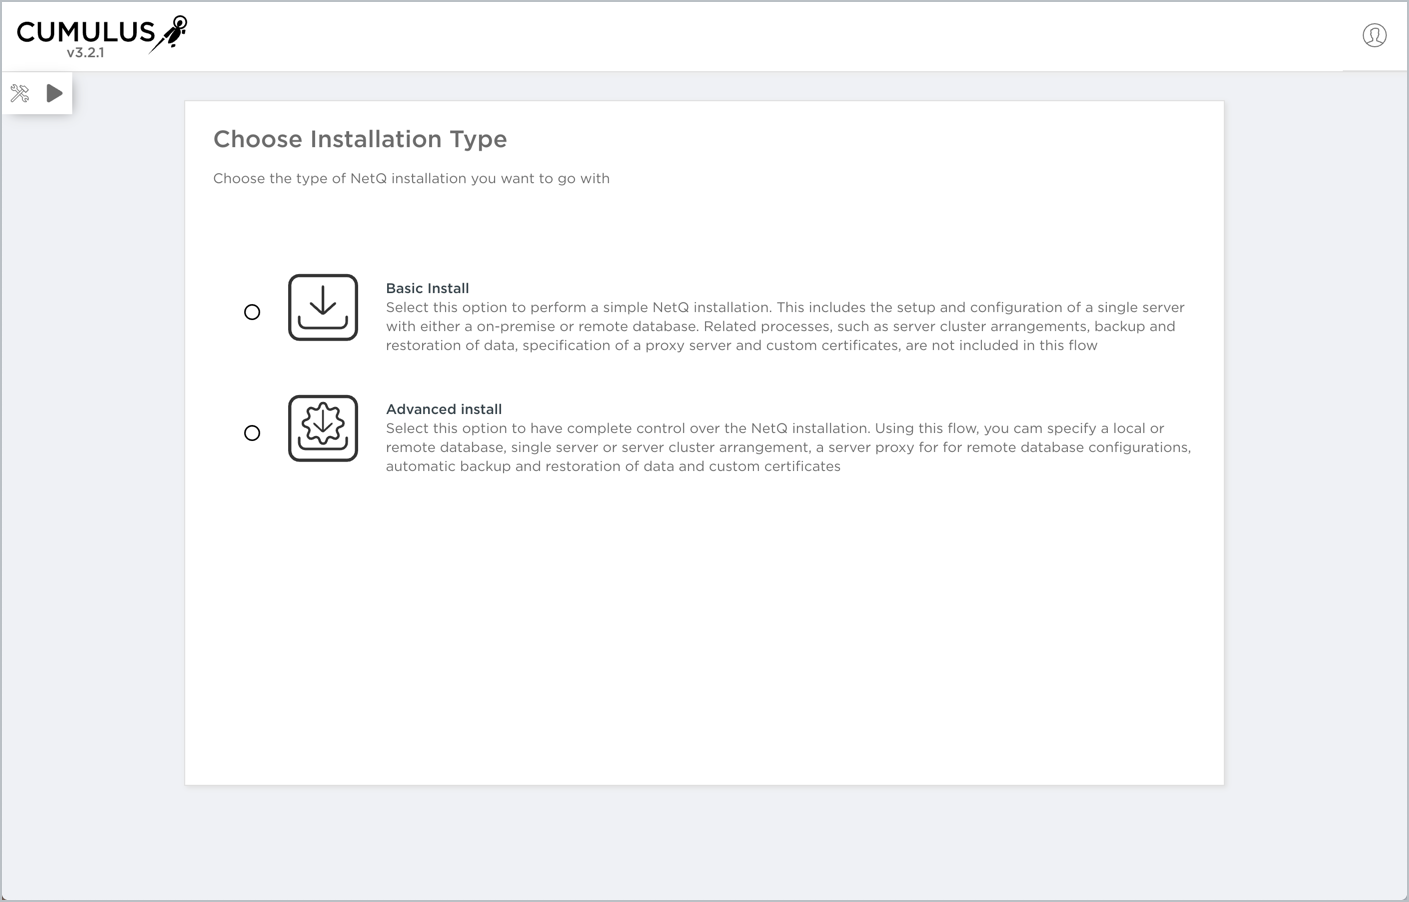
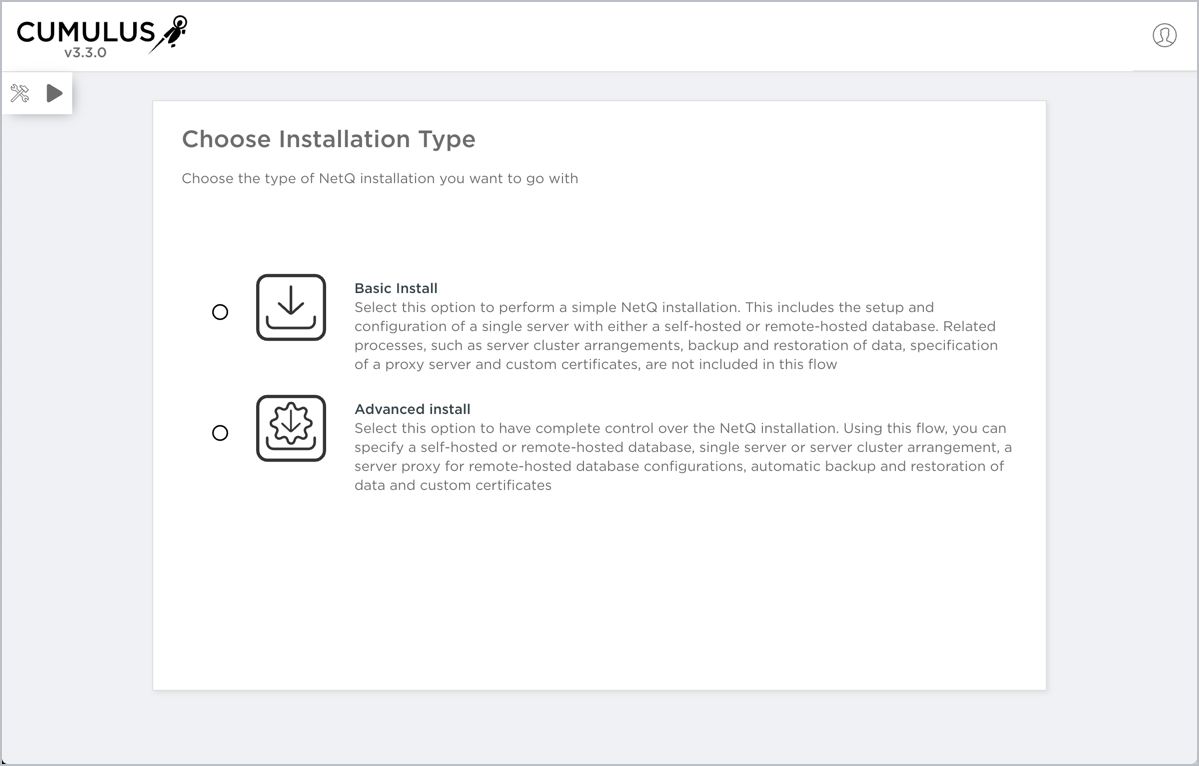
Admin UI updates

diff --git a/content/cumulus-netq-33/Manage-Deployment/Install-NetQ/Install-NetQ-System-Platform/Install-NetQ-with-AdminUI.md b/content/cumulus-netq-33/Manage-Deployment/Install-NetQ/Install-NetQ-System-Platform/Install-NetQ-with-AdminUI.md
@@ -24,7 +24,7 @@ To install NetQ:
 
     The default username is *admin* and the default password in *admin*.
 
-    {{<figure src="/images/netq/adminui-welcome-320.png" width="600">}}
+    {{<figure src="/images/netq/adminui-welcome-330.png" width="600">}}
 
 3. Click **Begin Installation**.
 
@@ -34,7 +34,7 @@ To install NetQ:
 
     Read the descriptions carefully to be sure to select the correct type. Then follow these instructions based on your selection.
 
-{{< tabs "TabID33" >}}
+    {{< tabs "TabID33" >}}
 
 {{< tab "Basic" >}}
 
@@ -46,33 +46,43 @@ To install NetQ:
 
     Choose which type of deployment model you want to use. Both options provide secure access to data and features useful for monitoring and troubleshooting your network.
 
-    {{<figure src="/images/netq/adminui-deploy-type-basic-320.png" width="600">}}
+    {{<figure src="/images/netq/adminui-deploy-type-330.png" width="600">}}
 
 3. Install the NetQ software according to your deployment type.
 
-{{< tabs "TabID49" >}}
+    {{< tabs "TabID49" >}}
 
-{{< tab "On-premises" >}}
+{{< tab "Self-hosted DB" >}}
 
-4. Enter or upload the NetQ 3.3.0 tarball, then click <img src="https://icons.cumulusnetworks.com/01-Interface-Essential/50-Navigate/navigation-right-circle-1_1.svg" height="18" width="18"/>.
+- Enter or upload the NetQ 3.3.0 tarball.
 
-    {{<figure src="/images/netq/adminui-install-onprem-basic-320.png" width="600">}}
+    {{<figure src="/images/netq/adminui-install-onprem-basic-330.png" width="600">}}
+
+- Click <img src="https://icons.cumulusnetworks.com/01-Interface-Essential/50-Navigate/navigation-right-circle-1_1.svg" height="18" width="18"/> once you are ready to install.
+
+    NOTE: You cannot stop the installation once it has begun.
 
 {{< /tab >}}
 
-{{< tab "Cloud" >}}
+{{< tab "Remote-hosted DB" >}}
 
-4. Enter or upload the NetQ 3.3.0 tarball.
+- Enter or upload the NetQ 3.3.0 tarball.
 
-5. Enter your configuration key.
+- Enter your configuration key.
 
-6. Click <img src="https://icons.cumulusnetworks.com/01-Interface-Essential/50-Navigate/navigation-right-circle-1_1.svg" height="18" width="18"/>.
+    {{<figure src="/images/netq/adminui-install-cloud-basic-330.png" width="600">}}
 
-    {{<figure src="/images/netq/adminui-install-cloud-basic-320.png" width="600">}}
+- Click <img src="https://icons.cumulusnetworks.com/01-Interface-Essential/50-Navigate/navigation-right-circle-1_1.svg" height="18" width="18"/>.
+
+    NOTE: You cannot stop the installation once it has begun.
 
 {{< /tab >}}
 
 {{< /tabs >}}
+
+4. Monitor the progress of the installation job. Click **Details** for a job to see more granular progress.
+
+    {{<figure src="/images/netq/adminui-install-onprem-basic-inprogress-details-330.png" width="600">}}
 
 ### Installation Results
 
@@ -80,19 +90,13 @@ If the installation succeeds, you are directed to the Health page of the Admin U
 
 If the installation fails, a failure indication is given.
 
-{{<figure src="/images/netq/adminui-install-basic-failure-320.png" width="600">}}
+{{<figure src="/images/netq/adminui-install-basic-failure-330.png" width="600">}}
 
-1. Click <img src="https://icons.cumulusnetworks.com/05-Internet-Networks-Servers/08-Upload-Download/download-bottom.svg" height="18" width="18"/> to view the reason.
+1. Click <img src="https://icons.cumulusnetworks.com/05-Internet-Networks-Servers/08-Upload-Download/download-bottom.svg" height="18" width="18"/> to download a json file with a description why the installation failed.
 
-    {{<figure src="/images/netq/adminui-install-basic-failure-reason-320.png" width="350">}}
+2. Can the error can be resolved by moving to the advanced configuration flow?
 
-<div style="padding-left: 18px;">
-Click <img src="https://icons.cumulusnetworks.com/01-Interface-Essential/33-Form-Validation/remove-circle.svg" height="18" width="18"/> to close the dialog or click <img src="https://icons.cumulusnetworks.com/05-Internet-Networks-Servers/08-Upload-Download/download-bottom.svg" height="18" width="18"/> to download an error file in JSON format.
-</div>
-
-2. Can the error can be resolved by moving to the advanced configuration flow:
-
-    - **No**: close the Admin UI, resolve the error, then reopen the Admin UI to start installation again.
+    - **No**: close the Admin UI, resolve the error, run `netq boostrap reset` and `netq bootstrap master` commands, then reopen the Admin UI to start installation again.
     - **Yes**: click <img src="/images/netq/adminui-install-advanced-icon-320.png" height="18" width="18"/> to be taken to the advanced installation flow and retry the failed task. Refer to the **Advanced** tab for instructions.
 
 {{< /tab >}}
@@ -101,19 +105,19 @@ Click <img src="https://icons.cumulusnetworks.com/01-Interface-Essential/33-Form
 
 1. Select **Advanced Install**, then click <img src="https://icons.cumulusnetworks.com/01-Interface-Essential/50-Navigate/navigation-right-circle-1_1.svg" height="18" width="18"/>.
 
-    {{<figure src="/images/netq/adminui-install-type-advanced-320.png" width="600">}}
+    {{<figure src="/images/netq/adminui-install-type-advanced-330.png" width="600">}}
 
 2. Select your deployment type.
 
     Choose the deployment model you want to use. Both options provide secure access to data and features useful for monitoring and troubleshooting your network.
 
-    {{<figure src="/images/netq/adminui-deploy-type-240.png" width="600">}}
+    {{<figure src="/images/netq/adminui-deploy-type-advanced-330.png" width="600">}}
 
 3. Monitor the initialization of the master node. When complete, click <img src="https://icons.cumulusnetworks.com/01-Interface-Essential/50-Navigate/navigation-right-circle-1_1.svg" height="18" width="18"/>.
 
     {{<figure src="/images/netq/adminui-init-master-advanced-320.png" width="600" caption="On-premises deployment">}}
 
-    {{<figure src="/images/netq/adminui-init-master-cloud-advanced-320.png" width="600" caption="Cloud deployment">}}
+    {{<figure src="/images/netq/adminui-init-master-cloud-advanced-330.png" width="600" caption="Cloud deployment">}}
 
 4. For on-premises deployments only, select your install method. For cloud deployments, skip to Step 5.
 
@@ -141,7 +145,7 @@ If you are moving from a standalone to a server cluster arrangement, you can onl
 
     Select whether you want to deploy your infrastructure as a single stand-alone server or as a cluster of servers.
 
-    {{<figure src="/images/netq/adminui-server-arrange-advanced-320.png" width="600">}}
+    {{<figure src="/images/netq/adminui-server-arrange-advanced-330.png" width="600">}}
 
 {{< tabs "TabID137" >}}
 
@@ -149,7 +153,7 @@ If you are moving from a standalone to a server cluster arrangement, you can onl
 
 Monitor the master configuration. When complete click <img src="https://icons.cumulusnetworks.com/01-Interface-Essential/50-Navigate/navigation-right-circle-1_1.svg" height="18" width="18"/>.
 
-{{<figure src="/images/netq/adminui-master-config-advanced-320.png" width="600">}}
+{{<figure src="/images/netq/adminui-master-config-advanced-330.png" width="600">}}
 
 {{< /tab >}}
 
@@ -195,7 +199,7 @@ Refer to {{<link title="Post Installation Configuration Options/#add-more-nodes-
 
 <em>For cloud</em>: Accept the path and filename suggested, or modify these to reflect where you stored your installation file. Enter your configuration key. Then click <img src="https://icons.cumulusnetworks.com/01-Interface-Essential/50-Navigate/navigation-right-circle-1_1.svg" height="18" width="18"/>.
 
-{{<figure src="/images/netq/adminui-install-onprem-advanced-320.png" width="600">}}
+{{<figure src="/images/netq/adminui-install-cloud-advanced-330.png" width="600">}}
 
 If the installation fails, a failure indication is given. For example:
 

diff --git a/content/cumulus-netq-33/Manage-Deployment/Upgrade-NetQ/Upgrade-System/_index.md b/content/cumulus-netq-33/Manage-Deployment/Upgrade-NetQ/Upgrade-System/_index.md
@@ -240,13 +240,15 @@ netq bootstrap master upgrade /mnt/installables/NetQ-3.3.0-opta.tgz
 
     The default username is *admin* and the default password in *admin*.
 
-    {{<figure src="/images/netq/adminui-health-tab-onprem-320.png" width="700" caption="On-premises deployment (cloud deployment only has Node and Pod cards)">}}
+    {{<figure src="/images/netq/adminui-health-tab-onprem-320.png" width="700" caption="On-premises deployment">}}
+
+    {{<figure src="/images/netq/adminui-health-tab-cloud-330.png" width="700" caption="Remote (cloud) deployment">}}
 
 4. Click **Upgrade**.
 
 5. Enter *NetQ-3.3.0.tgz* or *NetQ-3.3.0-opta.tgz* and click <img src="https://icons.cumulusnetworks.com/01-Interface-Essential/50-Navigate/navigation-right-circle-1_1.svg" height="18" width="18"/>.
 
-    {{<figure src="/images/netq/adminui-upgrade-enter-tar-300.png" width="700">}}
+    {{<figure src="/images/netq/adminui-upgrade-enter-tar-330.png" width="700">}}
 
     {{<notice tip>}}
 The <img src="https://icons.cumulusnetworks.com/01-Interface-Essential/50-Navigate/navigation-right-circle-1_1.svg" height="18" width="18"/> is only visible after you enter your tar file information.
